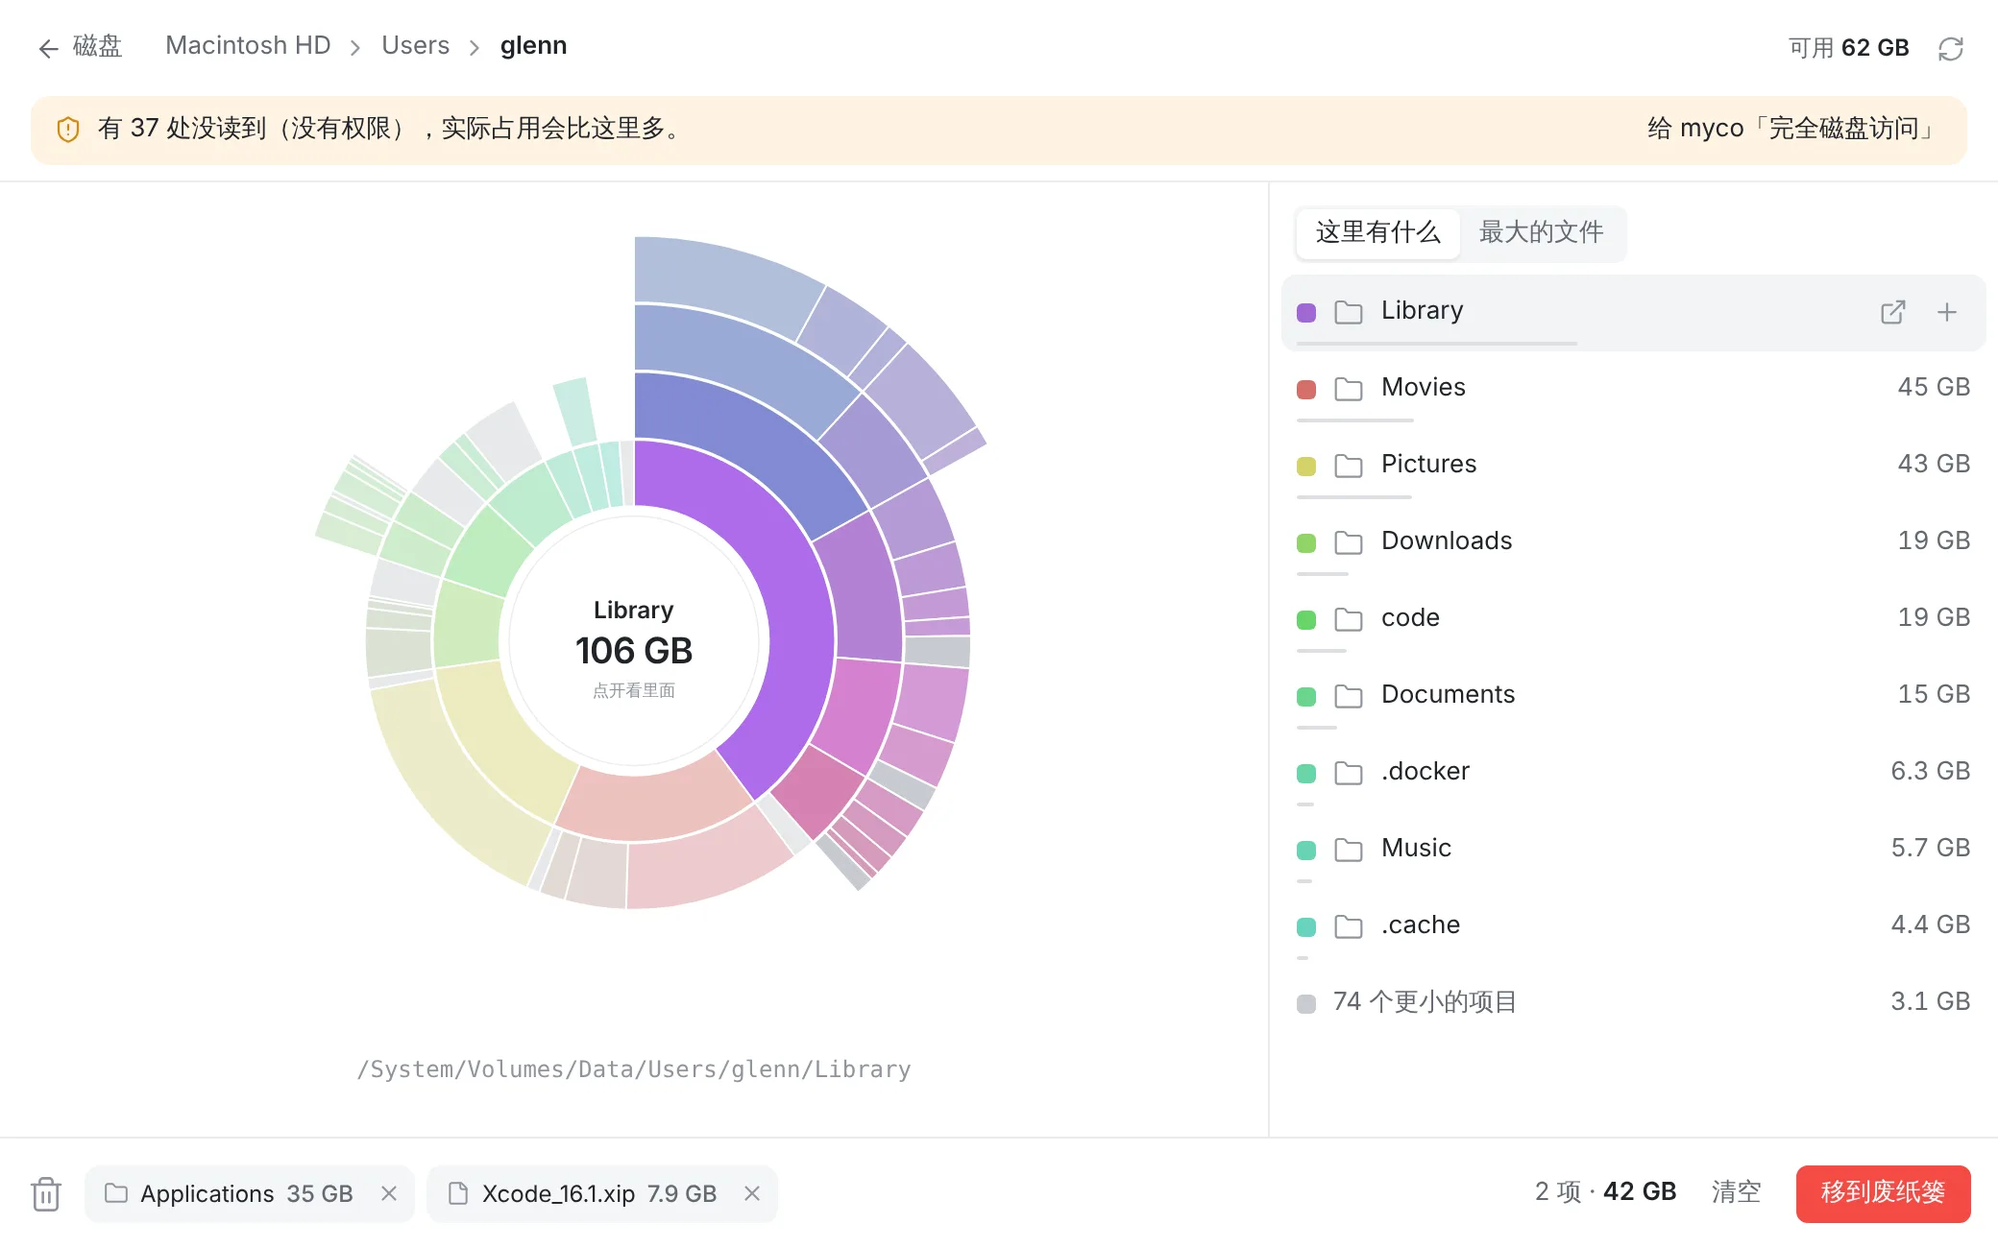
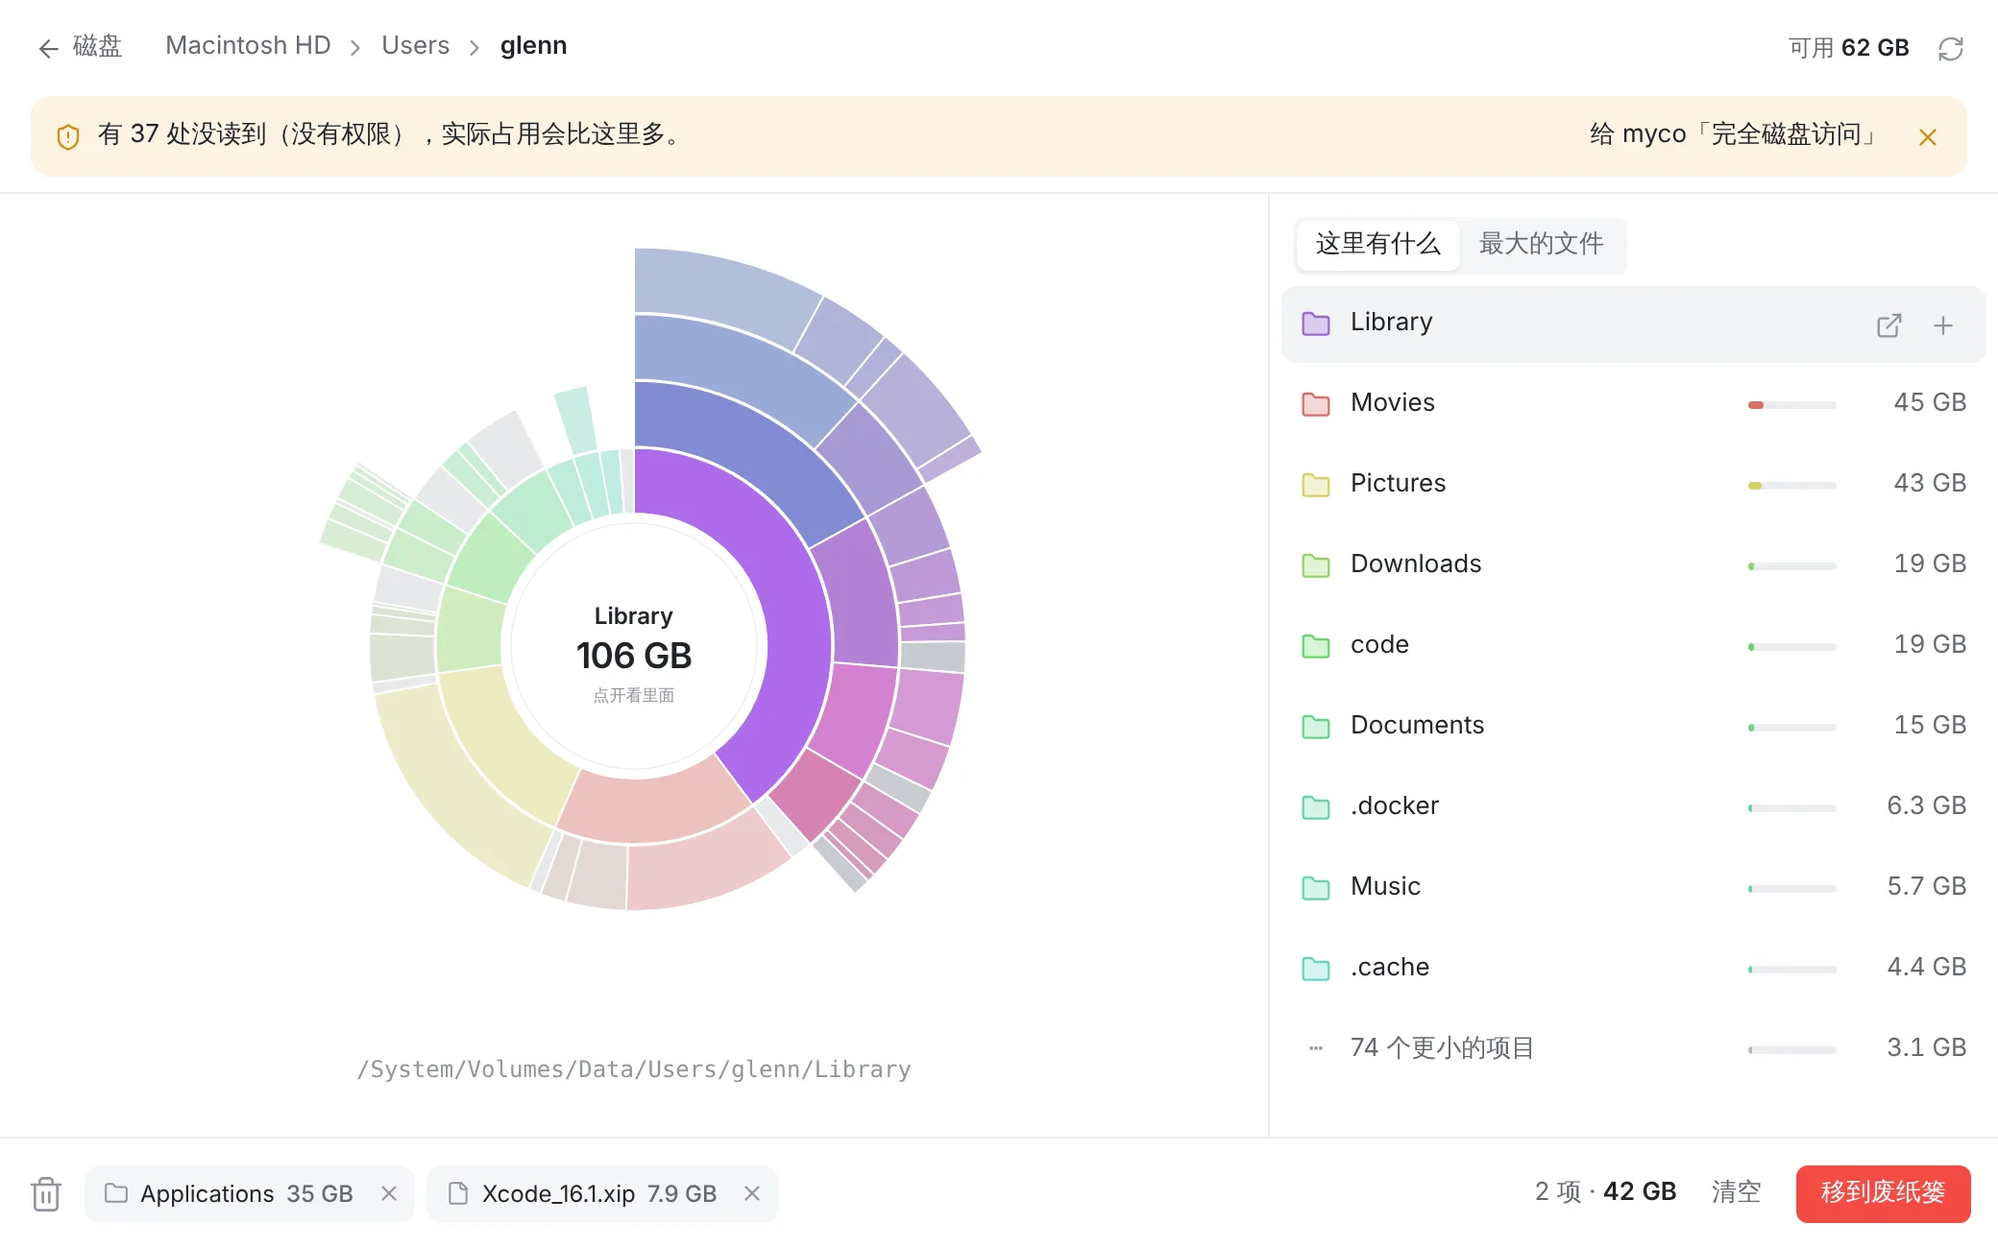
空间清理: keeps scanning when tucked away; a scan you can watch; quieter list
From Glenn trying the preview:

- Tucking the page panel away (收起) stopped the scan: the App took the
  page's bridge down with the panel, and with it what the page had
  started. The bridge now stays while the page does (it is kept, hidden);
  only closing the page stops its jobs. Reading a job no longer gives up
  when the App is asleep or offline for a moment, only when the job is
  gone.
- Scanning shows a ring that fills (a disk: the share of what is used on
  it, so a real percent), the folders read to the end growing into it in
  the colours the map will have, the largest of them listed, and a soft
  glow. fs.scan's progress now carries those folders (top).
- The list: no line under each row; the folder icon takes its colour on
  the map, and a short bar before the size says how much of the folder
  it is.
- The note about places it could not read can be closed (and stays
  closed); the count moves under the map.

Version 1.1.0.

Claude-Session: https://claude.ai/code/session_01CewNoAFbrSSvGsNNKPnVJH

diff --git a/templates/src/disk/main.tsx b/templates/src/disk/main.tsx
@@ -72,6 +72,9 @@ function App() {
   const [canPick, setCanPick] = useState(false);
   const [, setTick] = useState(0);
   const started = useRef(0);
+  // the note about places it could not read: closed once, closed for good
+  const [warnOff, setWarnOff] = useState(() => { try { return localStorage.getItem("myco-disk-warn-off") === "1"; } catch { return false; } });
+  const hideWarn = () => { setWarnOff(true); try { localStorage.setItem("myco-disk-warn-off", "1"); } catch { /* (a private window) */ } };
   const scanning = useRef<Target | null>(null);
 
   const loadDisks = () => os().system.disks().then((d) => { setDisks(d.filter((x) => !x.read_only || x.mount === "/")); setDiskErr(""); }, (e: OSError) => setDiskErr(e.message));
@@ -81,7 +84,7 @@ function App() {
     void has("fs.pick").then(setCanPick);
   }, []);
 
-  const job = useJob<OSScan, { files: number; disk: number; current: string }>(() =>
+  const job = useJob<OSScan, Progress>(() =>
     os().fs.scan({ path: scanning.current!.path, depth: DEPTH, min_fraction: FRACTION, top: 200 }));
   // (a clock for the time it has taken)
   useEffect(() => {
@@ -173,12 +176,25 @@ function App() {
   if (job.running || (target && !tree && !job.error)) {
     const p = job.progress;
     const secs = Math.max(0, Math.round((Date.now() - started.current) / 1000));
+    // a disk: how much of what is used on it has been read (an estimate: a
+    // disk holds a little more than its files)
+    const used = target?.disk ? target.disk.total - target.disk.available : 0;
+    const share = used ? Math.min(0.99, (p?.disk || 0) / used) : 0;
     return (
-      <div className="dk-scanning">
-        <svg className="dk-spin" viewBox="0 0 120 120" aria-hidden><circle cx="60" cy="60" r="52" /><circle cx="60" cy="60" r="52" className="dk-spin-arc" /></svg>
-        <div className="dk-scan-num">{formatBytes(p?.disk || 0)}</div>
-        <div className="dk-scan-sub">{(p?.files || 0).toLocaleString()} 个文件 · {secs} 秒</div>
+      <div className="dk-scanning" style={{ ["--glow" as string]: p?.top?.[0] ? scanColor(p, 0, used, dark) : "transparent" }}>
+        <ScanRing p={p} used={used} dark={dark} />
+        <div className="dk-scan-num">{used ? `${Math.floor(share * 100)}%` : formatBytes(p?.disk || 0)}</div>
+        <div className="dk-scan-sub">
+          {used ? `${formatBytes(p?.disk || 0)} / ${formatBytes(used)} · ` : ""}{(p?.files || 0).toLocaleString()} 个文件 · {secs < 60 ? `${secs} 秒` : `${Math.floor(secs / 60)} 分 ${secs % 60} 秒`}
+        </div>
         <div className="dk-scan-path" title={p?.current}>{ltr(p?.current || target?.path || "")}</div>
+        {!!p?.top?.length && (
+          <ul className="dk-scan-top" aria-label="目前最大的">
+            {p.top.slice(0, 5).map((t, i) => (
+              <li key={t.path}><i style={{ background: scanColor(p, i, used, dark) }} /><span>{t.name}</span><b>{formatBytes(t.disk)}</b></li>
+            ))}
+          </ul>
+        )}
         <button type="button" className="btn" onClick={() => { scanning.current = null; job.cancel(); setTarget(null); }}>停止</button>
       </div>
     );
@@ -192,6 +208,7 @@ function App() {
     const segOf = new Map(segs.map((s) => [s.key, s]));
     const hoverSeg = hover ? layout(at, LEVELS).find((s) => s.key === hover) || null : null;
     const onSeg = (s: Seg) => { if (s.node?.dir) void open(s.node); };
+    const biggest = scan.largest.find((f) => f.path.startsWith(at.path))?.disk || 0;
     const drag = (e: DragEvent, it: Item) => { e.dataTransfer.setData("text/x-myco-path", it.path); e.dataTransfer.effectAllowed = "copy"; dragged.current = it; };
     return (
       <div className="dk">
@@ -209,11 +226,12 @@ function App() {
           {target.disk && <span className="dk-free">可用 <b>{formatBytes(target.disk.available)}</b></span>}
           <button type="button" className="icon-btn" title="重新扫描" onClick={() => void start(target)}><RefreshCw className="ico" /></button>
         </header>
-        {scan.skipped > 0 && (
+        {scan.skipped > 0 && !warnOff && (
           <div className="dk-warn">
             <ShieldAlert className="ico" />
             <span>有 {scan.skipped.toLocaleString()} 处没读到（没有权限），实际占用会比这里多。</span>
             {sys.info?.os === "darwin" && <button type="button" className="link-btn" onClick={() => void os().system.settings({ pane: "full_disk" })}>给 myco「完全磁盘访问」</button>}
+            <button type="button" className="icon-btn dk-warn-x" title="不再提示" aria-label="不再提示" onClick={hideWarn}><X className="ico" /></button>
           </div>
         )}
         <div className="dk-body">
@@ -221,7 +239,8 @@ function App() {
             <Sunburst node={at} levels={LEVELS} dark={dark} hover={hover} busy={refining} canUp={chain.length > 1}
               onHover={(k) => setHover(k)} onOpen={onSeg} onUp={up} />
             <div className="dk-legend">
-              {hoverSeg ? (hoverSeg.more ? `${hoverSeg.parent.name} 里 ${hoverSeg.parent.more} 个更小的项目` : ltr(hoverSeg.node!.path)) : `扫了 ${scan.files.toLocaleString()} 个文件，用了 ${(scan.ms / 1000).toFixed(1)} 秒`}
+              {hoverSeg ? (hoverSeg.more ? `${hoverSeg.parent.name} 里 ${hoverSeg.parent.more} 个更小的项目` : ltr(hoverSeg.node!.path))
+                : `扫了 ${scan.files.toLocaleString()} 个文件，用了 ${(scan.ms / 1000).toFixed(1)} 秒${scan.skipped && warnOff ? `，${scan.skipped.toLocaleString()} 处没权限读` : ""}`}
             </div>
           </section>
           <aside className="dk-side">
@@ -238,22 +257,22 @@ function App() {
                   <div key={k.path} role="listitem" className={`dk-row${hover && (hover === k.path || hover.startsWith(k.path + "/")) ? " is-on" : ""}${taken ? " is-taken" : ""}`}
                     draggable onDragStart={(e) => drag(e, it)} onMouseEnter={() => setHover(k.path)} onMouseLeave={() => setHover(null)}
                     onDoubleClick={() => k.dir && void open(k)} onClick={() => k.dir && void open(k)}>
-                    <i className="dk-dot" style={{ background: s ? colorOf(s, dark) : "var(--line)" }} />
-                    {k.dir ? <Folder className="dk-ico" strokeWidth={1.6} /> : <File className="dk-ico" strokeWidth={1.6} />}
+                    <RowIcon dir={k.dir} color={s ? colorOf(s, dark) : ""} />
                     <span className="dk-name" title={k.path}>{k.name}</span>
+                    <Meter share={at.disk ? k.disk / at.disk : 0} color={s ? colorOf(s, dark) : "var(--faint)"} />
                     <span className="dk-size">{formatBytes(k.disk)}</span>
                     <span className="dk-acts">
                       <button type="button" className="icon-btn" title="在访达里显示" onClick={(e) => { e.stopPropagation(); void os().fs.reveal({ path: k.path }); }}><ExternalLink className="ico" /></button>
                       <button type="button" className="icon-btn" title={taken ? "已在待清理里" : "加到待清理"} disabled={taken} onClick={(e) => { e.stopPropagation(); add(it); }}><Plus className="ico" /></button>
                     </span>
-                    <i className="dk-bar" style={{ width: `${at.disk ? Math.max(0.5, (k.disk / at.disk) * 100) : 0}%` }} />
                   </div>
                 );
               })}
               {tab === "here" && (at.more || 0) > 0 && (
                 <div className="dk-row is-more" role="listitem">
-                  <i className="dk-dot" style={{ background: dark ? "hsl(220 6% 34%)" : "hsl(220 8% 80%)" }} />
+                  <span className="dk-more-ico" aria-hidden>⋯</span>
                   <span className="dk-name">{at.more} 个更小的项目</span>
+                  <Meter share={at.disk ? (at.more_disk || 0) / at.disk : 0} color={dark ? "hsl(220 6% 40%)" : "hsl(220 8% 74%)"} />
                   <span className="dk-size">{formatBytes(at.more_disk || 0)}</span>
                 </div>
               )}
@@ -263,8 +282,9 @@ function App() {
                 const taken = inBasket(f.path);
                 return (
                   <div key={f.path} role="listitem" className={`dk-row${taken ? " is-taken" : ""}`} draggable onDragStart={(e) => drag(e, it)}>
-                    <File className="dk-ico" strokeWidth={1.6} />
+                    <RowIcon dir={false} color="" />
                     <span className="dk-name" title={f.path}>{it.name}<small>{f.path.slice(at.path.length).replace(/[\\/][^\\/]*$/, "") || "/"}</small></span>
+                    <Meter share={it.disk / (biggest || 1)} color="var(--faint)" />
                     <span className="dk-size">{formatBytes(it.disk)}</span>
                     <span className="dk-acts">
                       <button type="button" className="icon-btn" title="在访达里显示" onClick={() => void os().fs.reveal({ path: f.path })}><ExternalLink className="ico" /></button>
@@ -362,6 +382,63 @@ function App() {
       )}
       <Toast kit={kit} />
     </div>
+  );
+}
+
+type Progress = { files: number; disk: number; current: string; top?: { name: string; path: string; dir: boolean; disk: number }[] };
+
+/** How much of the folder it takes: a short bar in its colour, before the size. */
+function Meter({ share, color }: { share: number; color: string }) {
+  return <span className="dk-meter-sm" aria-hidden><i style={{ width: `${Math.max(4, Math.min(100, share * 100))}%`, background: color }} /></span>;
+}
+
+/** A folder or file in the list: its icon in its colour on the map. */
+function RowIcon({ dir, color }: { dir: boolean; color: string }) {
+  const I = dir ? Folder : File;
+  return <I className="dk-ico" strokeWidth={1.7} style={color ? { color, fill: `color-mix(in srgb, ${color} 28%, transparent)` } : undefined} />;
+}
+
+/** The i-th folder read while scanning, coloured where it will be on the map. */
+function scanColor(p: Progress | null, i: number, used: number, dark: boolean) {
+  const top = p?.top || [];
+  const whole = used || top.reduce((s, t) => s + t.disk, 0) || 1;
+  let a = 0;
+  for (let j = 0; j < i; j++) a += (top[j].disk / whole) * Math.PI * 2;
+  const w = ((top[i]?.disk || 0) / whole) * Math.PI * 2;
+  return colorOf({ key: "", node: { dir: true } as OSScanNode, parent: {} as OSScanNode, depth: 1, a0: a, a1: a + w }, dark);
+}
+
+/** While scanning: a ring that fills as it goes (a disk: what is used on
+ *  it; a folder: what is found so far), the folders read to the end in
+ *  their colours, the rest of what is read in grey, and a light running
+ *  round the outside. */
+function ScanRing({ p, used, dark }: { p: Progress | null; used: number; dark: boolean }) {
+  const C = 150, R = 118, W = 22, TAU = Math.PI * 2;
+  const top = p?.top || [];
+  const done = top.reduce((s, t) => s + t.disk, 0);
+  const whole = used || Math.max(done, p?.disk || 0) || 1;
+  const arc = (a0: number, a1: number) => {
+    if (a1 - a0 < 0.002) return "";
+    a1 = Math.min(a1, a0 + TAU - 1e-4);
+    const pt = (a: number) => `${(C + R * Math.sin(a)).toFixed(2)},${(C - R * Math.cos(a)).toFixed(2)}`;
+    return `M${pt(a0)}A${R},${R} 0 ${a1 - a0 > Math.PI ? 1 : 0} 1 ${pt(a1)}`;
+  };
+  let a = 0;
+  const segs = top.map((t, i) => {
+    const w = (t.disk / whole) * TAU;
+    const d = arc(a + 0.004, a + w - 0.004);
+    a += w;
+    return d ? <path key={t.path} d={d} className="dk-ring-seg" style={{ stroke: scanColor(p, i, used, dark) }} /> : null;
+  });
+  // what is read but not yet in a finished folder
+  const reading = Math.min(TAU, ((p?.disk || 0) / whole) * TAU);
+  return (
+    <svg className="dk-ring" viewBox="0 0 300 300" aria-hidden>
+      <circle cx={C} cy={C} r={R} className="dk-ring-track" style={{ strokeWidth: W }} />
+      {reading > a && <path d={arc(a, reading)} className="dk-ring-reading" style={{ strokeWidth: W }} />}
+      <g style={{ strokeWidth: W }}>{segs}</g>
+      <circle cx={C} cy={C} r={R + W / 2 + 9} className="dk-ring-run" />
+    </svg>
   );
 }
 

diff --git a/templates/src/disk/disk.css b/templates/src/disk/disk.css
@@ -40,17 +40,30 @@
 .dk-warn .ico { color: #d18a10; }
 .dk > .dk-warn { margin: 0 16px 8px; }
 .dk-warn .link-btn { height: auto; padding: 0; margin-left: auto; }
+.dk-warn-x { margin-right: -4px; }
 
-/* scanning */
-.dk-scanning { display: flex; flex-direction: column; align-items: center; justify-content: center; gap: 6px; padding: 24px; }
-.dk-spin { width: 132px; height: 132px; margin-bottom: 14px; }
-.dk-spin circle { fill: none; stroke: var(--line2); stroke-width: 5; }
-.dk-spin .dk-spin-arc { stroke: var(--fg); stroke-linecap: round; stroke-dasharray: 80 247; transform-origin: 60px 60px; animation: dk-turn 1.1s linear infinite; }
+/* scanning: a ring filling in the colours the map will have, a soft glow of the largest behind it */
+.dk-scanning { position: relative; display: flex; flex-direction: column; align-items: center; justify-content: center; gap: 4px; padding: 24px; overflow: hidden;
+  background: radial-gradient(ellipse 60% 48% at 50% 34%, color-mix(in srgb, var(--glow) 16%, transparent), transparent 70%); }
+.dk-ring { width: 248px; height: 248px; margin-bottom: 10px; overflow: visible; }
+.dk-ring circle, .dk-ring path { fill: none; }
+.dk-ring-track { stroke: var(--line2); }
+.dk-ring-reading { stroke: color-mix(in srgb, var(--faint) 40%, transparent); animation: dk-pulse 1.8s ease-in-out infinite; }
+@keyframes dk-pulse { 50% { opacity: 0.55; } }
+.dk-ring-seg { stroke-linecap: butt; animation: dk-in 0.5s ease-out; }
+@keyframes dk-in { from { opacity: 0; } }
+.dk-ring-run { stroke: var(--fg); stroke-width: 2; stroke-linecap: round; stroke-dasharray: 60 860; opacity: 0.55; transform-origin: 150px 150px; animation: dk-turn 1.6s linear infinite; }
 @keyframes dk-turn { to { transform: rotate(360deg); } }
-.dk-scan-num { font-size: 34px; font-weight: 600; letter-spacing: -0.02em; }
+.dk-scan-num { font-size: 36px; font-weight: 650; letter-spacing: -0.02em; }
 .dk-scan-sub { font-size: 13px; color: var(--muted); }
-.dk-scan-path { max-width: min(560px, 90vw); margin: 6px 0 14px; overflow: hidden; text-overflow: ellipsis; white-space: nowrap; direction: rtl; text-align: center;
+.dk-scan-path { max-width: min(560px, 90vw); margin: 4px 0 10px; overflow: hidden; text-overflow: ellipsis; white-space: nowrap; direction: rtl; text-align: center;
   font: 12px ui-monospace, SFMono-Regular, Menlo, Consolas, monospace; color: var(--faint); }
+.dk-scan-top { display: flex; flex-direction: column; gap: 2px; width: min(340px, 90vw); margin: 0 0 16px; padding: 8px 10px; list-style: none;
+  border: 1px solid var(--line2); border-radius: 12px; background: color-mix(in srgb, var(--bg) 82%, transparent); backdrop-filter: blur(6px); }
+.dk-scan-top li { display: flex; align-items: center; gap: 9px; height: 28px; font-size: 13px; animation: dk-in 0.4s ease-out; }
+.dk-scan-top i { width: 9px; height: 9px; flex: none; border-radius: 3px; }
+.dk-scan-top span { flex: 1; min-width: 0; overflow: hidden; text-overflow: ellipsis; white-space: nowrap; }
+.dk-scan-top b { flex: none; font-weight: 500; color: var(--muted); font-variant-numeric: tabular-nums; }
 
 /* the map */
 .dk { display: flex; flex-direction: column; }
@@ -82,20 +95,21 @@
 .dk-side { display: flex; flex-direction: column; width: 380px; flex: none; border-left: 1px solid var(--line2); background: var(--bg); }
 .dk-tabs { align-self: flex-start; margin: 12px 12px 6px; }
 .dk-list { flex: 1; min-height: 0; overflow-y: auto; padding: 0 6px 10px; }
-.dk-row { position: relative; display: flex; align-items: center; gap: 9px; height: 40px; padding: 0 8px; border-radius: 8px; font-size: 13px; }
+.dk-row { position: relative; display: flex; align-items: center; gap: 10px; height: 40px; padding: 0 10px; margin-bottom: 2px; border-radius: 8px; font-size: 13px; isolation: isolate; }
 .dk-row:hover, .dk-row.is-on { background: var(--hover); }
+.dk-meter-sm { width: 46px; height: 4px; flex: none; border-radius: 2px; background: var(--line2); overflow: hidden; }
+.dk-meter-sm i { display: block; height: 100%; border-radius: 2px; }
+.dk-more-ico { width: 16px; flex: none; text-align: center; color: var(--faint); }
 .dk-row.is-taken { opacity: 0.45; }
 .dk-row.is-more { color: var(--muted); }
-.dk-dot { width: 10px; height: 10px; flex: none; border-radius: 3px; }
 .dk-ico { width: 16px; height: 16px; flex: none; color: var(--faint); }
 .dk-name { flex: 1; min-width: 0; overflow: hidden; text-overflow: ellipsis; white-space: nowrap; }
 .dk-name small { margin-left: 8px; color: var(--faint); font-size: 11px; }
-.dk-size { flex: none; color: var(--muted); }
+.dk-size { flex: none; min-width: 58px; text-align: right; color: var(--muted); }
 .dk-acts { display: none; gap: 2px; flex: none; }
 .dk-row:hover .dk-acts { display: inline-flex; }
-.dk-row:hover .dk-size { display: none; }
+.dk-row:hover .dk-size, .dk-row:hover .dk-meter-sm { display: none; }
 .dk-acts .icon-btn:disabled { opacity: 0.35; }
-.dk-bar { position: absolute; left: 8px; bottom: 3px; height: 2px; max-width: calc(100% - 16px); border-radius: 1px; background: var(--line); }
 .dk-none { padding: 24px 12px; color: var(--faint); font-size: 13px; text-align: center; }
 
 /* the basket */

diff --git a/templates/shots-os.js b/templates/shots-os.js
@@ -56,8 +56,11 @@
       let i = 0;
       const tick = () => {
         i++;
-        emit("progress", { files: Math.round(tree.files * i / steps), disk: tree.disk * i / steps, current: ROOT + "/Users/glenn/Library/Caches" });
-        if (i >= steps) resolve(value); else setTimeout(tick, 120);
+        // (the root's folders finish one by one, the largest last)
+        const kids = [...tree.children].reverse();
+        const done = kids.slice(0, Math.floor(kids.length * i / steps)).map((k) => ({ name: k.name, path: k.path, dir: k.dir, disk: k.disk, files: k.files })).sort((a, b) => b.disk - a.disk);
+        emit("progress", { files: Math.round(tree.files * i / steps), disk: tree.disk * i / steps, current: ROOT + "/Users/glenn/Library/Caches/com.spotify.client", top: done });
+        if (i >= steps) resolve(value); else setTimeout(tick, window.__SCAN_MS__ || 120);
       };
       setTimeout(tick, 60);
     });
